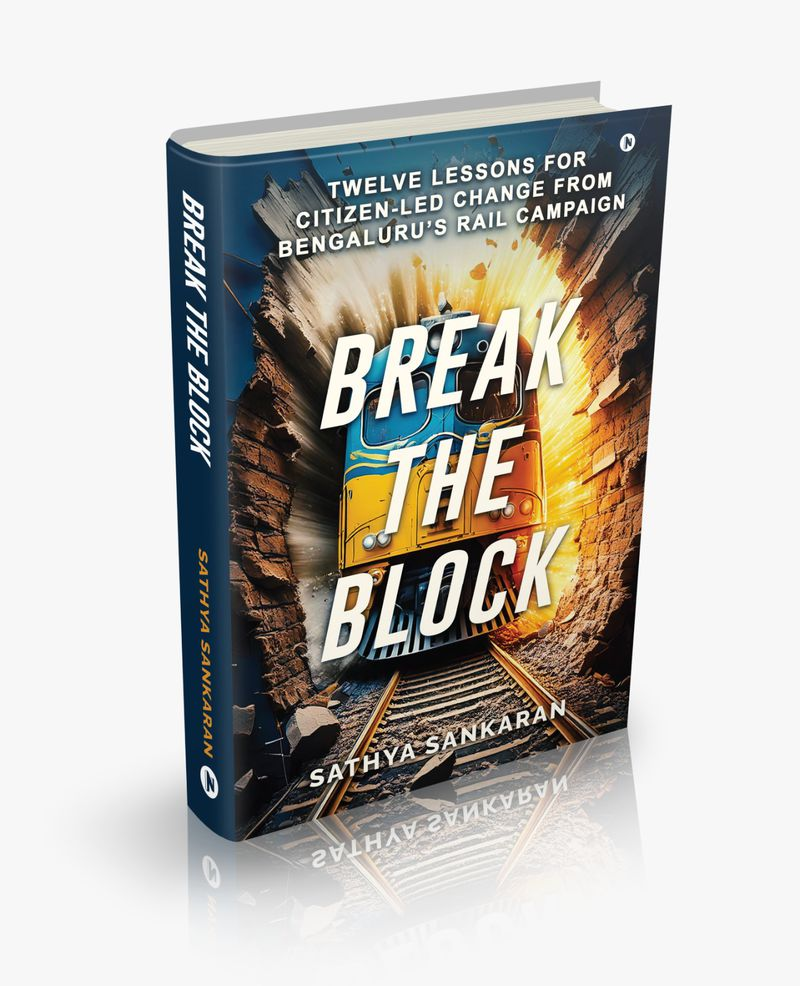
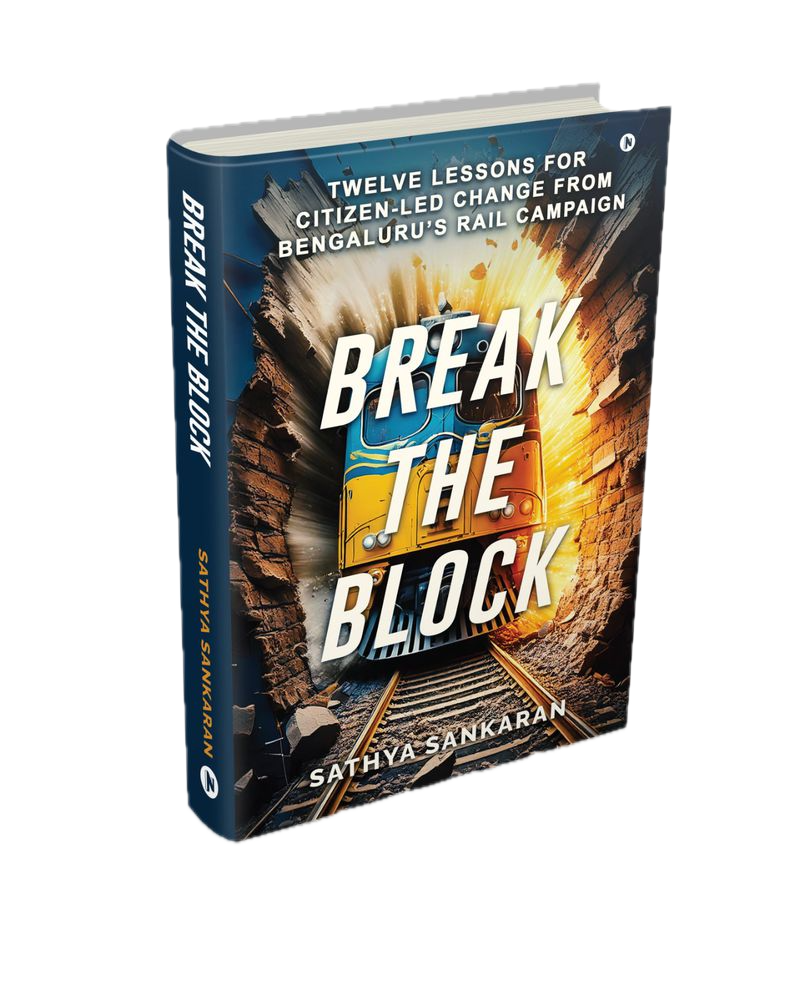
Update book cover to transparent background and fix shadow styling
Replace book-cover.png with transparent-background version. Switch from
box-shadow to drop-shadow filter so shadow follows the book shape, and
remove border-radius that doesn't work with transparent images.

diff --git a/styles.css b/styles.css
@@ -2155,11 +2155,8 @@
             max-width: 100%;
             height: auto;
             max-height: 600px;
-            box-shadow:
-                0 20px 60px rgba(0, 0, 0, 0.5),
-                0 0 80px rgba(255, 107, 53, 0.2);
-            border-radius: 4px;
             transition: transform 0.5s ease;
+            filter: drop-shadow(0 20px 60px rgba(0, 0, 0, 0.5)) drop-shadow(0 0 80px rgba(255, 107, 53, 0.2));
         }
 
         .hero-book-cover img:hover {
